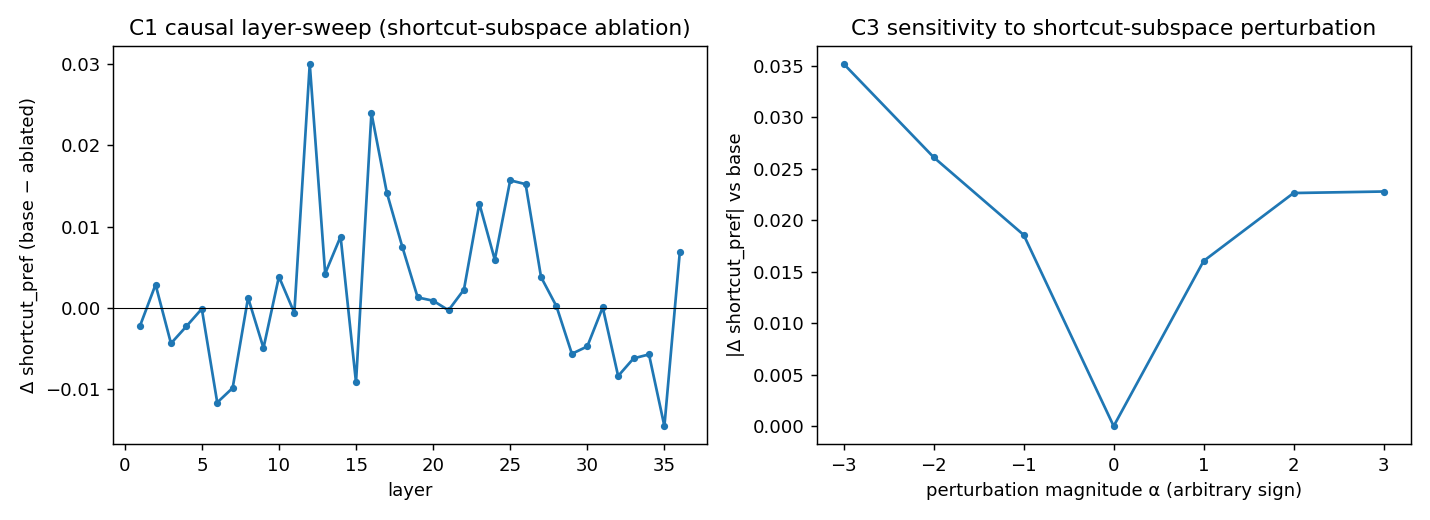
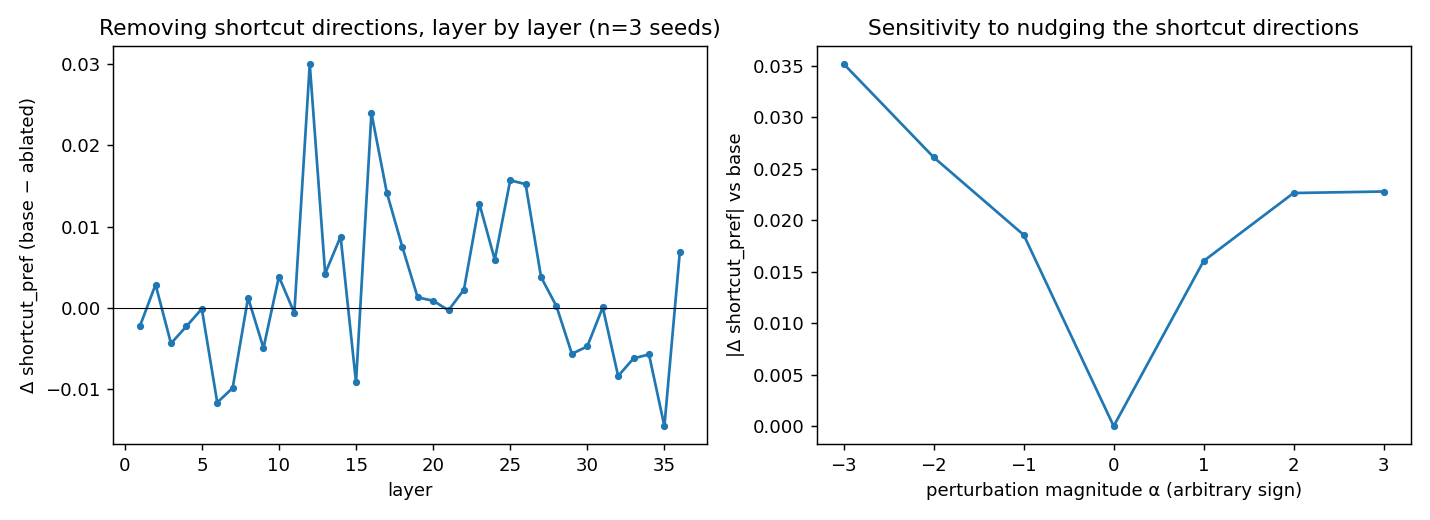
Figures: seed SD error bars, plain-language titles, chance line 0.25 asserted; regenerate

Changed region(s): [[0.0615, 0.0308, 0.5231, 0.0923], [0.5846, 0.0308, 0.9538, 0.0923]]

diff --git a/ibrg_llm/aggregate.py b/ibrg_llm/aggregate.py
@@ -1,7 +1,7 @@
-"""Post-hoc aggregation + figures across all seed/model runs (E + F + summaries).
+"""Post-hoc aggregation + figures across all seed/model runs.
 
-Reads ibrg_llm/out/*.json and produces one figure per experiment plus the
-headline E1 scatter (selectivity predicts generalization). Runs on CPU in
+Reads ibrg_llm/out/*.json and produces one figure per experiment. Error bars
+are the SD over seeds. Numbers quoted in the write-up come from stats.py. Runs on CPU in
 seconds — invoke after the arrays finish:  python -m ibrg_llm.aggregate
 """
 from __future__ import annotations
@@ -18,12 +18,12 @@ def load(pat):
     return [json.load(open(f)) for f in sorted(glob.glob(os.path.join(OUT, pat)))]
 
 
-def mean_ci(vals):
-    v = np.array([x for x in vals if x == x])
+def mean_sd(vals):
+    """Mean and sample SD over seeds (ddof=1) — the error bar used in every figure."""
+    v = np.array([x for x in vals if x == x], float)
     if len(v) == 0:
         return float("nan"), float("nan")
-    boot = [np.random.default_rng(i).choice(v, len(v)).mean() for i in range(2000)]
-    return float(v.mean()), float(np.std(boot))
+    return float(v.mean()), float(v.std(ddof=1)) if len(v) > 1 else 0.0
 
 
 def fig_base():
@@ -34,15 +34,20 @@ def fig_base():
     al = [r["H1"]["aligned_acc"] for r in runs]
     eff_c = [r["H4"]["base"] - r["H4"]["color_ablate"] for r in runs]
     eff_r = [r["H4"]["base"] - r["H4"]["random_ablate"] for r in runs]
-    m_sp, e_sp = mean_ci(sp); m_al, e_al = mean_ci(al)
-    m_c, e_c = mean_ci(eff_c); m_r, e_r = mean_ci(eff_r)
+    m_sp, e_sp = mean_sd(sp); m_al, e_al = mean_sd(al)
+    m_c, e_c = mean_sd(eff_c); m_r, e_r = mean_sd(eff_r)
     fig, ax = plt.subplots(1, 2, figsize=(10, 4))
-    ax[0].bar(["shortcut_pref\n(conflict)", "aligned_acc\n(sanity)"], [m_sp, m_al],
-              yerr=[e_sp, e_al], color=["C1", "C0"], capsize=4)
-    ax[0].axhline(0.5, ls=":", color="gray"); ax[0].set_ylim(0, 1); ax[0].set_title(f"H1 behavioral (n={len(sp)} seeds)")
-    ax[1].bar(["color-ablate", "random-ablate"], [m_c, m_r], yerr=[e_c, e_r],
+    ax[0].bar(["shortcut preference\n(rule and shortcut disagree)", "accuracy\n(rule and shortcut agree)"],
+              [m_sp, m_al], yerr=[e_sp, e_al], color=["C1", "C0"], capsize=4)
+    ax[0].axhline(0.5, ls=":", color="gray"); ax[0].set_ylim(0, 1)
+    ax[0].set_title(f"Qwen2.5-3B behavior (mean ± SD, n={len(sp)} seeds)")
+    ax[1].bar(["remove shortcut\ndirections", "remove random\ndirection"], [m_c, m_r], yerr=[e_c, e_r],
               color=["C3", "gray"], capsize=4)
-    ax[1].axhline(0, color="k", lw=0.6); ax[1].set_title("H4 shortcut-ablation effect (Δ shortcut_pref)")
+    ax[1].scatter([0] * len(eff_c) + [1] * len(eff_r), eff_c + eff_r, color="k", s=10, zorder=3)
+    ax[1].axhline(0, color="k", lw=0.6); ax[1].set_ylabel("drop in shortcut preference")
+    from scipy.stats import ttest_rel
+    p = ttest_rel(eff_c, eff_r).pvalue
+    ax[1].set_title(f"Removing directions, one layer (paired p = {p:.2f})", fontsize=11)
     plt.tight_layout(); plt.savefig(os.path.join(OUT, "fig_base_H1_H4.png"), dpi=130); plt.close()
     print("fig_base_H1_H4.png:", f"shortcut_pref={m_sp:.3f}±{e_sp:.3f} aligned={m_al:.3f} "
           f"color_eff={m_c:+.3f}±{e_c:.3f} random_eff={m_r:+.3f}±{e_r:.3f}")
@@ -54,13 +59,18 @@ def fig_scale():
                       ("3B", "shortcut_seed*.json")]:
         runs = load(pat)
         if runs:
-            fig_pts[abbr] = mean_ci([r["H1"]["shortcut_pref"] for r in runs])
+            fig_pts[abbr] = mean_sd([r["H1"]["shortcut_pref"] for r in runs]) + (
+                [r["H1"]["shortcut_pref"] for r in runs],)
     if len(fig_pts) < 2:
         return
     xs = list(fig_pts); ys = [fig_pts[k][0] for k in xs]; es = [fig_pts[k][1] for k in xs]
-    plt.figure(figsize=(6, 4)); plt.errorbar(xs, ys, yerr=es, marker="o", capsize=4)
-    plt.axhline(0.5, ls=":", color="gray"); plt.ylim(0, 1)
-    plt.ylabel("shortcut_pref (conflict)"); plt.title("A1 shortcut-reliance vs model scale")
+    plt.figure(figsize=(6, 4)); plt.errorbar(xs, ys, yerr=es, marker="o", capsize=4, label="mean ± SD over seeds")
+    for i, k in enumerate(xs):
+        plt.scatter([i] * len(fig_pts[k][2]), fig_pts[k][2], color="gray", s=10, alpha=0.7, zorder=3)
+    plt.axhline(0.5, ls=":", color="gray", label="no preference (0.5)"); plt.ylim(0.4, 0.6)
+    plt.xlabel("Qwen2.5-Instruct model size"); plt.legend(fontsize=8)
+    plt.ylabel("shortcut preference\n(share of answers following the shortcut)")
+    plt.title("Shortcut use by model size (n = 5 seeds each)")
     plt.tight_layout(); plt.savefig(os.path.join(OUT, "fig_scale.png"), dpi=130); plt.close()
     print("fig_scale.png:", {k: round(v[0], 3) for k, v in fig_pts.items()})
 
@@ -77,7 +87,7 @@ def fig_phase():
     plt.figure(figsize=(6, 4.5)); im = plt.imshow(M, aspect="auto", cmap="RdBu_r", vmin=0, vmax=1)
     plt.colorbar(im, label="shortcut_pref"); plt.xticks(range(len(K)), K); plt.yticks(range(len(S)), S)
     plt.xlabel("demos per class k"); plt.ylabel("shortcut strength")
-    plt.title("B IB phase diagram (shortcut reliance)")
+    plt.title("Shortcut use vs cue strength and number of examples")
     plt.tight_layout(); plt.savefig(os.path.join(OUT, "fig_phase.png"), dpi=130); plt.close()
     print("fig_phase.png saved")
 
@@ -95,11 +105,11 @@ def fig_ablsweep():
     fig, ax = plt.subplots(1, 2, figsize=(11, 4))
     ax[0].plot(layers, curve, "-o", ms=3); ax[0].axhline(0, color="k", lw=0.6)
     ax[0].set_xlabel("layer"); ax[0].set_ylabel("Δ shortcut_pref (base − ablated)")
-    ax[0].set_title("C1 causal layer-sweep (shortcut-subspace ablation)")
+    ax[0].set_title(f"Removing shortcut directions, layer by layer (n={len(runs)} seeds)")
     ax[1].plot(alphas, dose, "-o", ms=3)
     ax[1].set_xlabel("perturbation magnitude α (arbitrary sign)")
     ax[1].set_ylabel("|Δ shortcut_pref| vs base")
-    ax[1].set_title("C3 sensitivity to shortcut-subspace perturbation")
+    ax[1].set_title("Sensitivity to nudging the shortcut directions")
     plt.tight_layout(); plt.savefig(os.path.join(OUT, "fig_ablsweep.png"), dpi=130); plt.close()
     print("fig_ablsweep.png saved")
 
@@ -135,7 +145,7 @@ def fig_selectivity():
         plt.scatter(xs[m], ys[m], label=nm, alpha=0.75)
     plt.xlabel("selectivity: rule − shortcut probe (best layer)")
     plt.ylabel("generalization: rule-following (1 − shortcut_pref)")
-    plt.title(f"E1 selectivity vs generalization across models×seeds (r={rho:.2f})")
+    plt.title(f"Probe gap vs rule-following (pooled r={rho:.2f}; driven by model size)")
     plt.legend(fontsize=8); plt.tight_layout()
     plt.savefig(os.path.join(OUT, "fig_selectivity.png"), dpi=130); plt.close()
     print(f"fig_selectivity.png: r={rho:.3f} over {len(xs)} model×seed runs")
@@ -147,11 +157,16 @@ def fig_monitor():
     runs = _model_runs()
     if len(runs) < 3:
         return
+    names = [r[0] for r in runs]
     xs = np.array([r[2] for r in runs]); ys = np.array([r[3] for r in runs])
     rho = float(np.corrcoef(xs, ys)[0, 1])
-    plt.figure(figsize=(6, 4.5)); plt.scatter(xs, ys, alpha=0.75, color="C3")
-    plt.xlabel("shortcut-cue decodability (best layer)"); plt.ylabel("shortcut_pref")
-    plt.title(f"F1 shortcut-probe as a monitor (r={rho:.2f})")
+    plt.figure(figsize=(6, 4.5))
+    for nm in ["0.5B", "1.5B", "3B"]:
+        m = [i for i, n in enumerate(names) if n == nm]
+        plt.scatter(xs[m], ys[m], label=nm, alpha=0.8)
+    plt.xlabel("shortcut probe accuracy (best layer)"); plt.ylabel("shortcut preference")
+    plt.legend(fontsize=8, title="model")
+    plt.title(f"Is a readable shortcut a used shortcut? (r={rho:.2f}, n={len(xs)}, n.s.)")
     plt.tight_layout(); plt.savefig(os.path.join(OUT, "fig_monitor.png"), dpi=130); plt.close()
     print(f"fig_monitor.png: r={rho:.3f}")
 
@@ -173,12 +188,12 @@ def fig_vib():
     ax[0].plot(x, cr, "-^", label="causal retention in z")
     ax[0].set_xscale("log"); ax[0].set_xlabel("β (compression)")
     ax[0].set_ylabel("accuracy / decodability"); ax[0].legend(fontsize=8)
-    ax[0].set_title("Track B: IB=RG vs compression β")
+    ax[0].set_title("Small network, noise feature: effect of compression")
     ax[1].plot(R, te, "-o")
     for i, b in enumerate(betas):
         ax[1].annotate(f"{b:g}", (R[i], te[i]), fontsize=6)
     ax[1].set_xlabel("rate R = KL(z) [nats]"); ax[1].set_ylabel("OOD test acc")
-    ax[1].set_title("rate–distortion: rate vs generalization")
+    ax[1].set_title("Bits kept vs new-data accuracy")
     plt.tight_layout(); plt.savefig(os.path.join(OUT, "fig_vib.png"), dpi=130); plt.close()
     bi = int(np.argmax(te))
     print(f"fig_vib.png: best OOD test_acc={te[bi]:.3f} at β={betas[bi]:g} vs {te[0]:.3f} at β=0; "
@@ -192,19 +207,24 @@ def fig_boundary():
         return
     betas = [r["beta"] for r in runs[0]["conditions"]["spurious"]]
     avg = lambda c, k: [float(np.mean([r["conditions"][c][i][k] for r in runs])) for i in range(len(betas))]
-    nc = runs[0]["cfg"].get("n_classes", 4)
+    sd = lambda c, k: [float(np.std([r["conditions"][c][i][k] for r in runs], ddof=1)) for i in range(len(betas))]
+    nc = runs[0]["cfg"]["n_classes"]
+    assert nc == 4, nc  # chance line below must be 1/4 = 0.25
     x = [max(b, 1e-4) for b in betas]
     fig, ax = plt.subplots(1, 2, figsize=(12, 4.5))
-    ax[0].plot(x, avg("spurious", "test_acc"), "-o", label="spurious (compression only)")
-    ax[0].plot(x, avg("intervention", "test_acc"), "-o", label="+ intervention do(U)")
-    ax[0].axhline(1.0 / nc, ls=":", color="gray", label="chance")
-    ax[0].set_xscale("log"); ax[0].set_xlabel("β"); ax[0].set_ylabel("OOD test acc")
+    lab = {"spurious": "compression only", "intervention": "compression + intervention"}
+    for c in ("spurious", "intervention"):
+        ax[0].errorbar(x, avg(c, "test_acc"), yerr=sd(c, "test_acc"), fmt="-o", capsize=3, label=lab[c])
+        ax[1].errorbar(x, avg(c, "shortcut_retention"), yerr=sd(c, "shortcut_retention"), fmt="-s", capsize=3, label=lab[c])
+    ax[0].axhline(1.0 / nc, ls=":", color="gray", label=f"chance ({1.0 / nc:.2f})")
+    ax[0].set_xscale("log"); ax[0].set_xlabel("compression β (0 plotted at 1e-4)")
+    ax[0].set_ylabel("accuracy on new data (shortcut broken)")
     ax[0].set_ylim(0, 1); ax[0].legend(fontsize=8)
-    ax[0].set_title("Compression can't fix the shortcut — intervention does")
-    ax[1].plot(x, avg("spurious", "shortcut_retention"), "-s", label="spurious")
-    ax[1].plot(x, avg("intervention", "shortcut_retention"), "-s", label="intervention")
-    ax[1].set_xscale("log"); ax[1].set_xlabel("β"); ax[1].set_ylabel("shortcut retention in z")
-    ax[1].legend(fontsize=8); ax[1].set_title("shortcut kept in z regardless of β")
+    ax[0].set_title(f"New-data accuracy (mean ± SD, n={len(runs)} seeds)")
+    ax[1].set_xscale("log"); ax[1].set_xlabel("compression β (0 plotted at 1e-4)")
+    ax[1].set_ylabel("shortcut readable from hidden code")
+    ax[1].set_ylim(0, 1.05); ax[1].legend(fontsize=8)
+    ax[1].set_title("How much of the shortcut the network keeps")
     plt.tight_layout(); plt.savefig(os.path.join(OUT, "fig_boundary.png"), dpi=130); plt.close()
     sp, iv = max(avg("spurious", "test_acc")), max(avg("intervention", "test_acc"))
     print(f"fig_boundary.png: best OOD test — spurious(compression)={sp:.3f} vs intervention={iv:.3f}")
@@ -258,7 +278,7 @@ def fig_foliation():
         ax[1].axhline(0.5, ls=":", color="gray", lw=0.8)
         ax[1].set_ylim(0, 1.02); ax[1].set_ylabel("label recovered (accuracy)")
         ax[1].legend(fontsize=8)
-        ax[1].set_title("Shortcut-aligned data: identical to observation, different to intervention")
+        ax[1].set_title("Shortcut-aligned training, β = 0")
         print(f"fig_foliation.png: [aligned β=0] obs rule/shortcut {oc:.2f}/{os_:.2f} (sep_auc={obs_auc0:.2f}); "
               f"across-env {ic:.2f}/{is_:.2f} (sep_auc={inv_auc0:.2f}) | [recomb] best OOD {ood[bstar]:.2f} at β={betas[bstar]:g}")
     plt.tight_layout(); plt.savefig(os.path.join(OUT, "fig_foliation.png"), dpi=130); plt.close()
@@ -281,7 +301,7 @@ def fig_fdt():
     ax2 = ax1.twinx()
     ax2.plot(x, var, "-s", color="C0", label="latent spread  Var(z)")
     ax2.set_yscale("log"); ax2.set_ylabel("latent spread Var(z)", color="C0"); ax2.tick_params(axis="y", labelcolor="C0")
-    ax1.set_title(f"Response and latent spread fall together — no peak (n={n})")
+    ax1.set_title(f"No peak in response or spread with compression (n={n})")
     plt.tight_layout(); plt.savefig(os.path.join(OUT, "fig_fdt.png"), dpi=130); plt.close()
     print(f"fig_fdt.png: χ {chi[0]:.2f}→{chi[-1]:.3f}; Var(z) {var[0]:.1f}→{var[-1]:.2f} (both monotone in β)")
 
